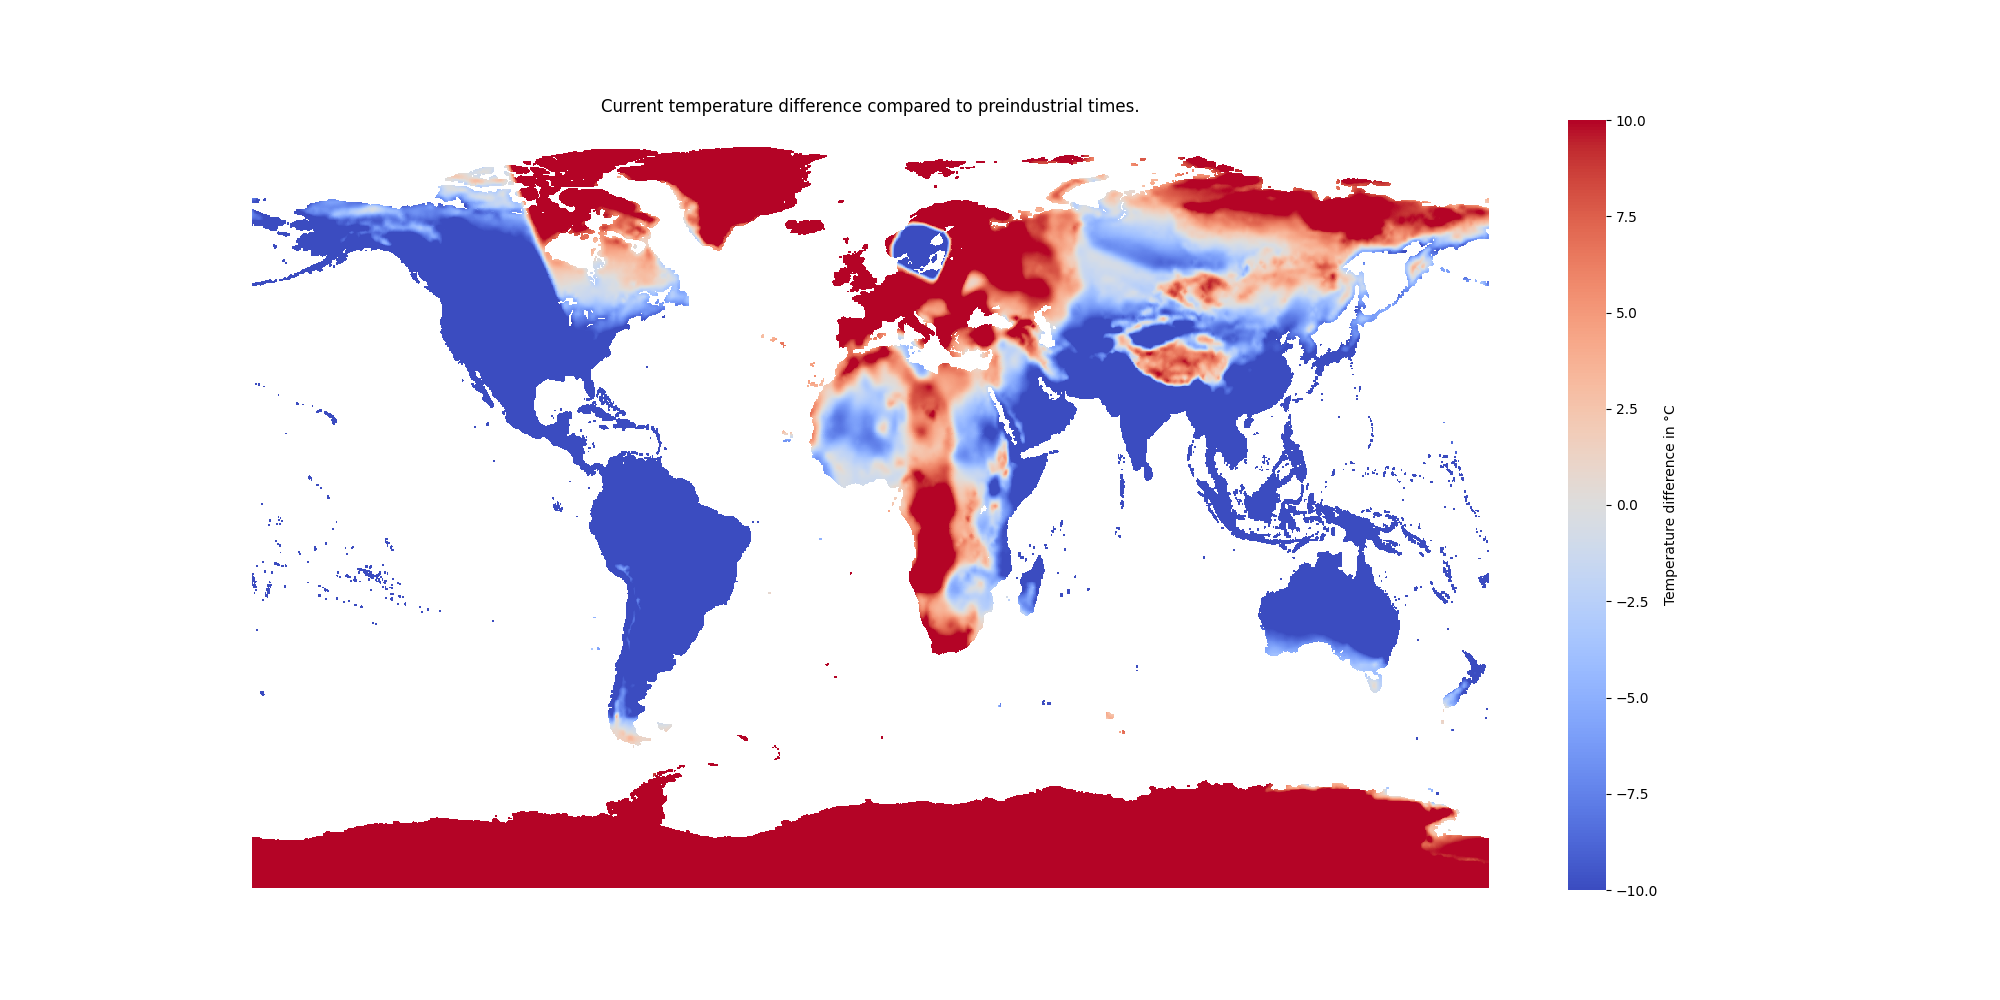
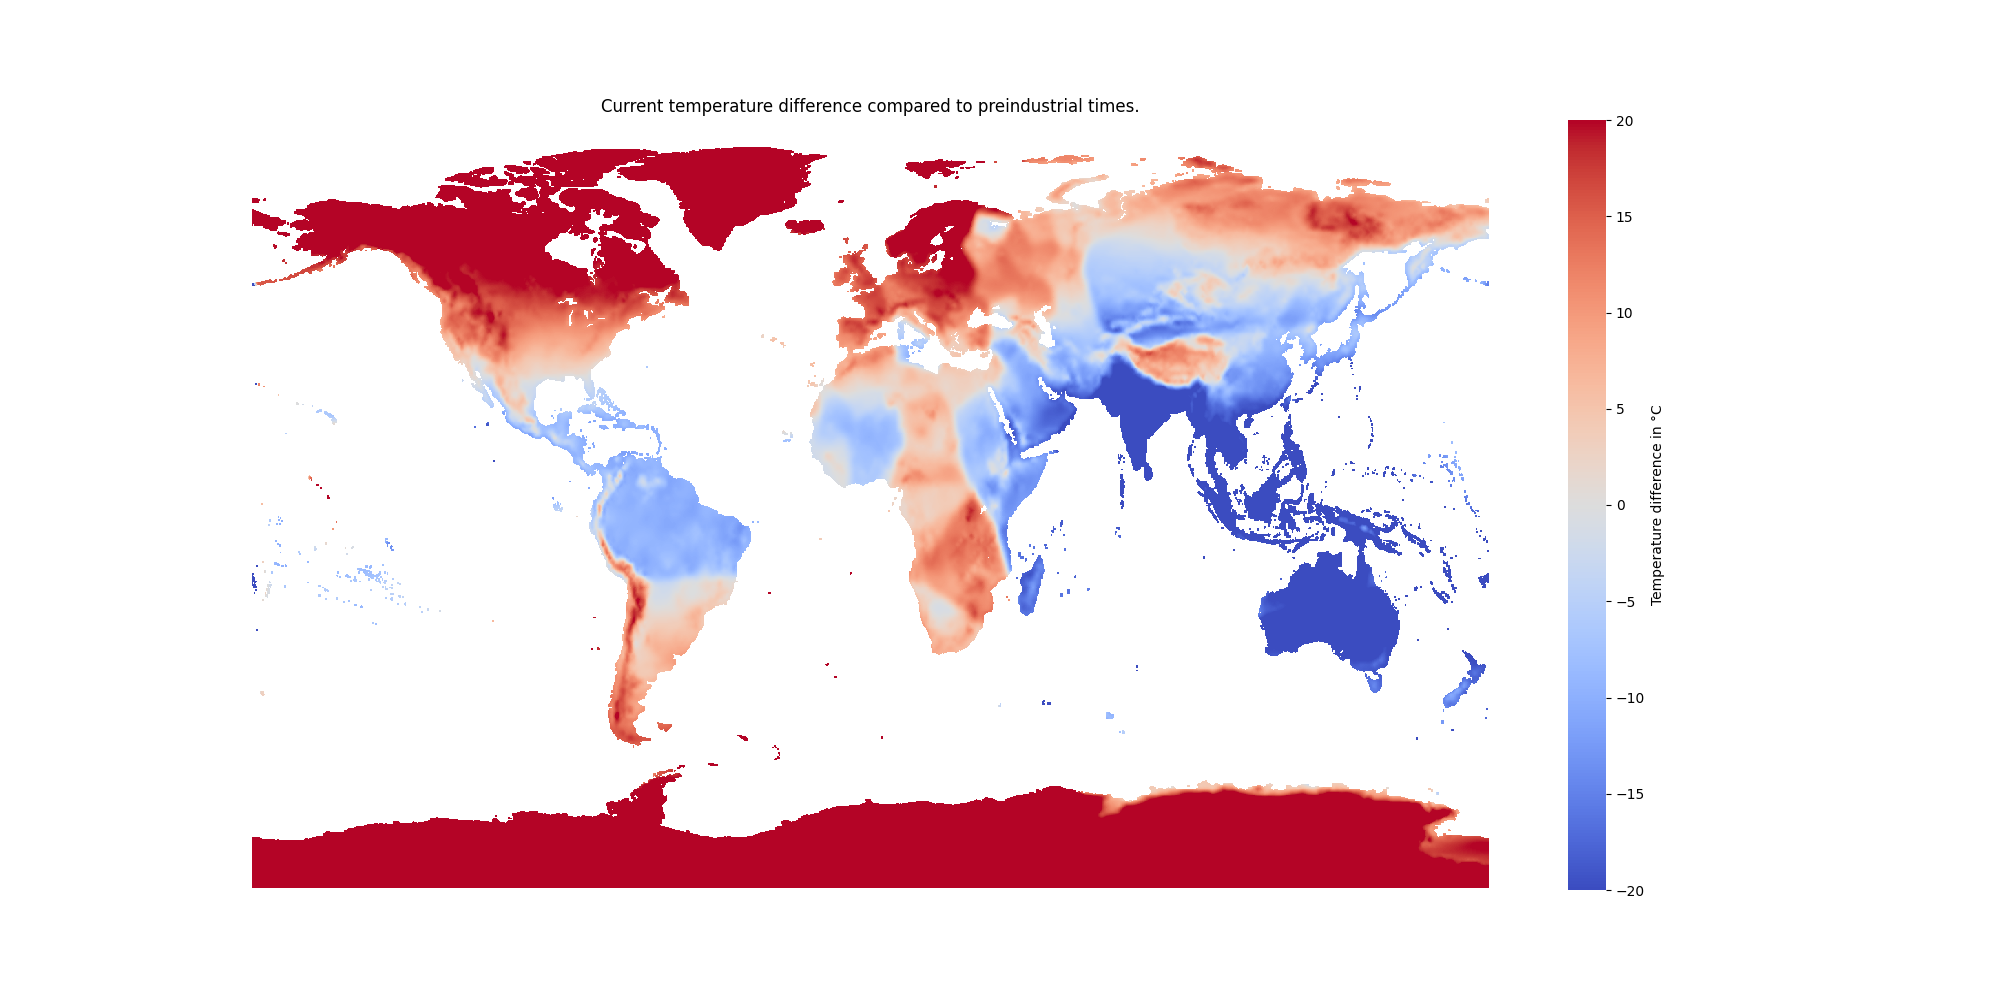
media update

diff --git a/src/batch_processing/batch_processing.py b/src/batch_processing/batch_processing.py
@@ -73,7 +73,7 @@ class BatchProcessor:
         fig, ax = plt.subplots(figsize=(20, 10))
         ax.set_title('Current temperature difference compared to preindustrial times.')
         cmap = sns.color_palette("coolwarm", as_cmap=True)
-        plot = sns.heatmap(model, ax=ax, vmin=-10, vmax=10, xticklabels=False, yticklabels=False, cmap=cmap,
+        plot = sns.heatmap(model, ax=ax, vmin=-20, vmax=20, xticklabels=False, yticklabels=False, cmap=cmap,
                            cbar_kws={'label': 'Temperature difference in °C'})
         plot.get_figure().savefig(self.ROOT_PATH.joinpath('src', 'webserver', 'static', 'global_temp_diff_map.png'))
         plt.close(fig)

diff --git a/README.md b/README.md
@@ -2,7 +2,7 @@
 
 # Hot Tub
 
-![hot tub logo](/media/logo.png "Hot Tub Logo")
+![hot tub logo](/media/hot_tub_logo.png "Hot Tub Logo")
 
 </div>
 
